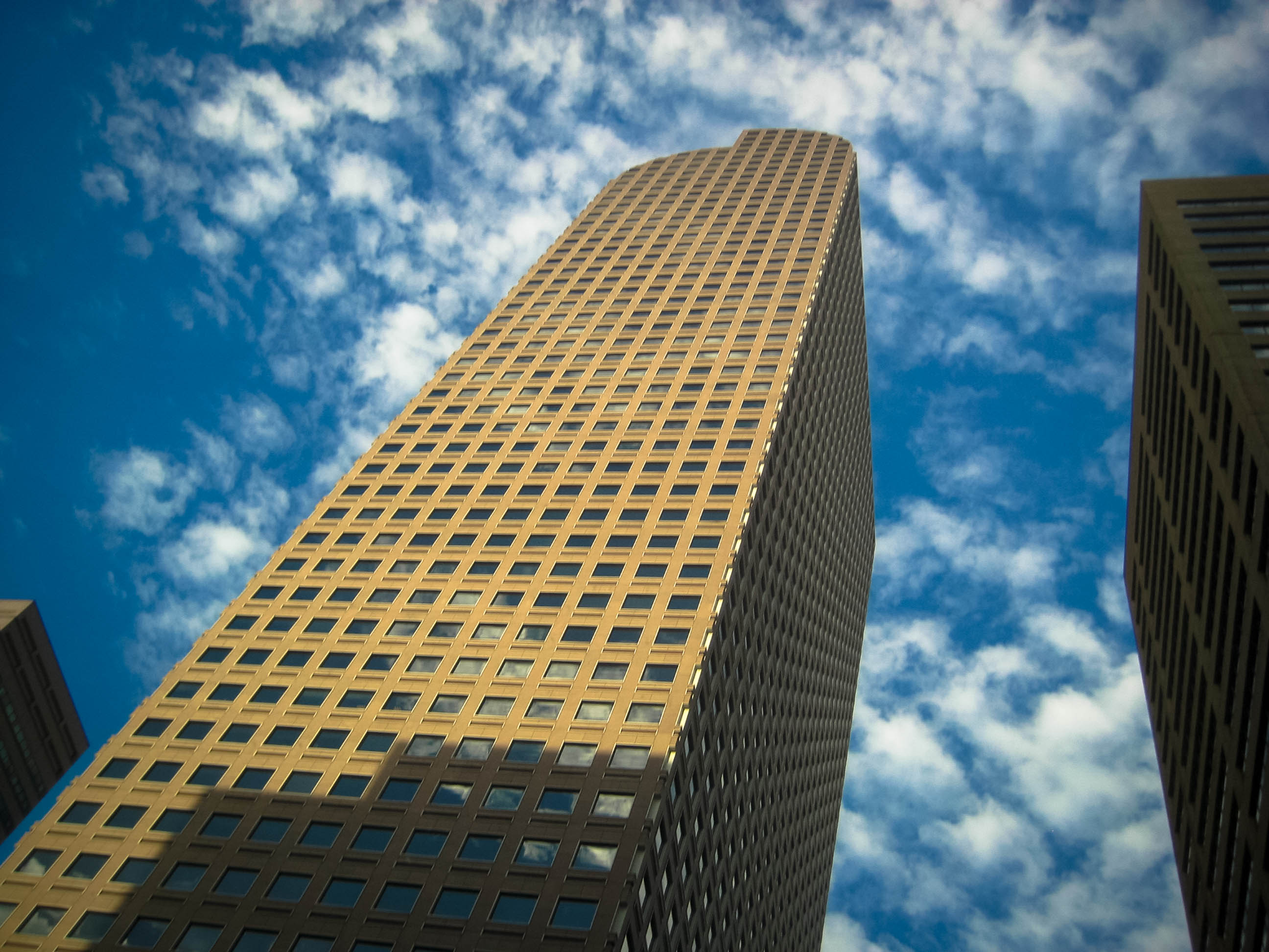
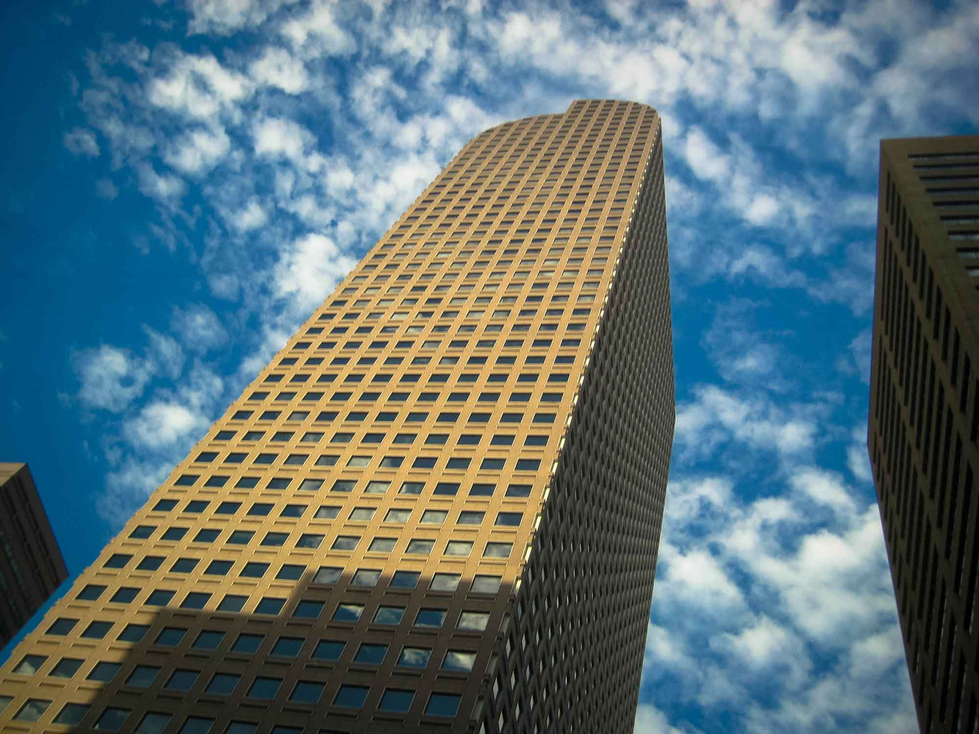
Optimized Design and Main pages.
As well as removed tam links and picked more appropriate photos for the
different sections

diff --git a/flat/design/index.html b/flat/design/index.html
@@ -9,7 +9,7 @@
 <!-- CSS -->
 <link rel="stylesheet" href="../assets/flat.css">
 <style>
-#main { background-image: url( '../assets/img/vargasp-open-space-estes-park.jpg' ); }
+#main { background-image: url( '../assets/img/vargas-denver-i-see-what-you-mean-blue-bear.jpg' ); }
 section p { overflow: auto; }
 </style>
 
@@ -36,7 +36,6 @@ section p { overflow: auto; }
       <li><a href="../code"><i class="iconsole"></i>Programming Projects</a></li>
       <li><a href="../design"><i class="igraph"></i>Design Work</a></li>
       <li><a href="../music"><i class="irecord"></i>Music Portfolio</a></li>
-      <li><a href="http://redwood.colorado.edu/vargasp"><i class="ilinks"></i><abbr title="Technology, Arts and Media">TAM</abbr> Classes</a></li>
     </menu>
     <i class="ipvlogo"></i>
   </nav>
@@ -67,26 +66,22 @@ section p { overflow: auto; }
             <p>Below is some of my design work for various organizations. <span class="help">Click each image to enlarge and then click anywhere to diminish.</span>
             </p>
             <p>
-              <img src="img/postcard-mhfb-freedom-swing-formal-affair.png" alt="Postcard MHFB Freedom Swing Formal Affair">
-              <img src="img/poster-quote-anonymous.png" alt="Poster Quote Anonymous">
-              <img src="img/poster-quote-zigler.png" alt="Poster Quote Zigler">
-              <img src="img/business-cards-main.png" alt="Business Card Main">
-              <img src="img/business-cards-anonymous.png" alt="Business Card with Anonymous Quote">
-              <img src="img/business-cards-zig-ziglar.png" alt="Business Card with Zig Ziglar Quote">
-              <img src="img/business-cards-oscar-wilde.png" alt="Business Card with Oscar Wilde Quote">
+              <img src="thumbs/postcard-mhfb-freedom-swing-formal-affair.png" alt="Postcard MHFB Freedom Swing Formal Affair">
+              <img src="thumbs/business-cards-anonymous.png" alt="Business Card with Anonymous Quote">
+              <img src="thumbs/business-cards-main.png" alt="Business Card Main">
+              <img src="thumbs/business-cards-zig-ziglar.png" alt="Business Card with Zig Ziglar Quote">
+              <img src="thumbs/business-cards-oscar-wilde.png" alt="Business Card with Oscar Wilde Quote">
+              <img src="thumbs/business-cards-lucille-ball.png" alt="Business Card with Lucille Ball Quote">            
+              <img src="thumbs/logo-knitting-man.png" alt="Logo Knitting Man">
             </p>
             <p>
-              <img src="img/business-cards-lucille-ball.png" alt="Business Card with Lucille Ball Quote">            
-              <img src="img/flyer-knitting-man.png" alt="Flyer Knitting Man">
-              <img src="img/logo-knitting-man.png" alt="Logo Knitting Man">
-              <img src="img/flyer-gsa-drag-show-jungle.png" alt="Flyer GSA Drag Show Jungle">
-              <img src="img/flyer-gsa-queer-sex-ed-01.png" alt="Flyer GSA Queer Sex Ed 01">
-              <img src="img/flyer-gsa-queer-sex-ed-02.png" alt="Flyer GSA Queer Sex Ed 02">
-              <img src="img/flyer-sage-interview-workshop.png" alt="Flyer SAGE Interview Workshop">
-            </p>
-            <p>
-              <img src="img/flyer-sage-resume-workshop.png" alt="Flyer SAGE Resume Workshop">
-              <img src="img/flyer-sage-general-meeting.png" alt="Flyer SAGE General Meeting">
+              <img src="thumbs/poster-quote-anonymous.png" alt="Poster Quote Anonymous">
+              <img src="thumbs/poster-quote-zigler.png" alt="Poster Quote Zigler">
+              <img src="thumbs/flyer-gsa-drag-show-jungle.png" alt="Flyer GSA Drag Show Jungle">
+              <img src="thumbs/flyer-gsa-queer-sex-ed-02.png" alt="Flyer GSA Queer Sex Ed 02">
+              <img src="thumbs/flyer-sage-interview-workshop.png" alt="Flyer SAGE Interview Workshop">
+              <img src="thumbs/flyer-sage-resume-workshop.png" alt="Flyer SAGE Resume Workshop">
+              <img src="thumbs/flyer-sage-general-meeting.png" alt="Flyer SAGE General Meeting">
             </p>
           </section>
         </div>
@@ -113,6 +108,7 @@ $(function( ) {
   vargas.SidebarMenuEffects( );
   vargas.lightbox( );
   vargas.key( );
+  vargas.preload( );
 });
 </script>
 </body>

diff --git a/flat/index.html b/flat/index.html
@@ -13,12 +13,11 @@
 #crumbs { display: none; }
 #navbar menu li, #drawer-switch { cursor: pointer; }
 #navbar menu li:hover { background-color: #00A5C9; }
-#home     { background-image: url( 'assets/img/vargasp-victoria-island-canada.jpg' ); }
+#home     { background-image: url( 'assets/img/vargasp-petroglyph-utah.jpg' ); }
 #resume   { background-image: url( 'assets/img/vargasp-cash-register-building-denver.jpg' ); }
-#projects { background-image: url( 'assets/img/vargasp-carousel-denver.jpg' ); }
-#design   { background-image: url( 'assets/img/vargasp-lake-champlain-vermont.jpg' ); }
-#music    { background-image: url( 'assets/img/vargasp-manitou-springs-colorado.jpg' ); }
-#tam      { background-image: url( 'assets/img/vargasp-flatiron-boulder.jpg' ); }
+#projects { background-image: url( 'assets/img/vargas-typewriter-auction.jpg' ); }
+#design   { background-image: url( 'assets/img/vargas-denver-i-see-what-you-mean-blue-bear.jpg' ); }
+#music    { background-image: url( 'assets/img/vargas-montreal-graffiti.jpg' ); }
 #links    { background-image: url( 'assets/img/vargasp-bridge-idaho.jpg' ); }
 </style>
 
@@ -58,7 +57,6 @@
       <li><a href="code"><i class="iconsole"></i>Programming Projects</a></li>
       <li><a href="design"><i class="igraph"></i>Design Work</a></li>
       <li><a href="music"><i class="irecord"></i>Music Portfolio</a></li>
-      <li><a href="http://redwood.colorado.edu/vargasp"><i class="ilinks"></i><abbr title="Technology, Arts and Media">TAM</abbr> Classes</a></li>
     </menu>
     <i class="ipvlogo"></i>
   </nav>
@@ -79,7 +77,6 @@
           <li id="iconsole" data-target="#projects">Programming Projects</li>
           <li id="igraph" data-target="#design">Design Work</li>
           <li id="irecord" data-target="#music">Music Portfolio</li>
-          <li id="itam" data-target="#tam">Tam ides</li>
           <li id="ilinks" data-target="#links">Social Network</li>
         </menu>
       </div>
@@ -126,18 +123,7 @@
           </a>
         </section>
         
-        <section id="tam" class="slide" data-speed="8">
-          <a href="http://redwood.colorado.edu/vargasp">
-            <h2><abbr title="Technology, Arts and Media">TAM</abbr> Classes</h2>
-            <p>Like what you see? Within the TAM Program at the University of Colorado, I needed a way to document my work.</p>
-          </a>
-        </section>
-
         <section id="links" class="slide" data-speed="8">
-          <!-- <div>
-            <h2>Links</h2>
-            <p>Find me on the Internet</p>
-          </div> -->
           <section>
             <a href="http://github.com/pevargas" target="_blank" rel="nofollow" id="github">Github</a>
             <a href="http://www.linkedin.com/pub/patrick-vargas/40/953/893" target="_blank" rel="nofollow" id="linkedin">LinkedIn</a>

diff --git a/flat/assets/repo.js b/flat/assets/repo.js
@@ -37,40 +37,12 @@ var repo = {
     date: "2010-08",
     text: "Designed flyers for the Gay-Straight Alliance. This flyer was used for the annual Drag Show, which had a jungle theme"
   },
-  "flyer-gsa-drag-show-retro.png":
-  {
-    date: "2010-08",
-    text: "Designed flyers for the Gay-Straight Alliance. This flyer was an alternate design for the annual Drag Show"
-  },
-  "flyer-gsa-queer-sex-ed-01.png":
-  {
-    date: "2010-09",
-    text: "Designed flyers for the Gay-Straight Alliance. This alternate flyer was for the annual Queer Sex Ed event."
-  },
   "flyer-gsa-queer-sex-ed-02.png":
   {
     date: "2010-09",
     text: "Designed flyers for the Gay-Straight Alliance. This alternate flyer was for the annual Queer Sex Ed event."
   },
-  "flyer-gsa-queer-sex-ed-03.png":
-  {
-    date: "2010-09",
-    text: "Designed flyers for the Gay-Straight Alliance. This alternate flyer was for the annual Queer Sex Ed event."
-  },
-  "flyer-gsa-queer-sex-ed-04.png":
-  {
-    date: "2010-09",
-    text: "Designed flyers for the Gay-Straight Alliance. This flyer was used for the annual Queer Sex Ed event."
-  },
-
-  /////////////////////////////////////////////////////////////////////////////
-  // Knitting Man Flyer
-  "flyer-knitting-man.png":
-  {
-    date: "2012-08",
-    text: "Designed flyers for Knitting Man: A Gay Men's Knitting Group. This promotional handbill is used to gain new members"
-  },
-
+  
   /////////////////////////////////////////////////////////////////////////////
   // SAGE Flyer
   "flyer-sage-general-meeting.png":
@@ -82,11 +54,6 @@ var repo = {
   {
     date: "2012-03",
     text: "Designed flyers for the Student Alliance of GLBT Engineers. This flyer was used to for an Interview Workshop for GLBTQ and Ally Students"
-  },
-  "flyer-sage-mass-meeting.png":
-  {
-    date: "2012-02",
-    text: "Designed flyers for the Student Alliance of GLBT Engineers. This flyer was for our introductory meeting for the semester"
   },
   "flyer-sage-resume-workshop.png":
   {

diff --git a/flat/assets/flat.js b/flat/assets/flat.js
@@ -129,6 +129,7 @@ var vargas = {
     $( 'img' ).each( function( ) {
       var src    = $( this ).attr( 'src' );
       var height, width;
+      src = src.replace( "thumbs", "img" );
 
       $( '<img>' ) // Make in memory copy of image to avoid css issues
         .attr( 'src', src )
@@ -208,9 +209,8 @@ var vargas = {
 
         // Find the index of the currently displayed image on the pages
         for ( var i = 0; i < images.length; ++i ) {
-          if ( images[i].src == current.src ) {
+          if ( images[i].src.split("/").pop() == current.src.split("/").pop() ) {
             index = i;
-            console.debug( i );
             break;
           }
         }
@@ -223,6 +223,18 @@ var vargas = {
         index = ( index + images.length ) % images.length;
         images[ index ].click( );
       }
+    });
+  },
+
+  // Function to preload the images
+  preload: function( ) {
+    var images = $( "article img" );
+    vargas.preHelper( images );
+  },
+
+  preHelper: function( arr ) {
+    $(arr).each( function () {
+      $( '<img/>' )[0].src = this.src.replace( "thumbs", "img" );
     });
   },
 

diff --git a/flat/music/index.html b/flat/music/index.html
@@ -9,7 +9,7 @@
 <!-- CSS -->
 <link rel="stylesheet" href="../assets/flat.css">
 <style>
-#main { background-image: url( '../assets/img/vargasp-trail-estes-park.jpg' ); }
+#main { background-image: url( '../assets/img/vargas-montreal-graffiti.jpg' ); }
 img { width: 20%; }
 </style>
 
@@ -36,7 +36,6 @@ img { width: 20%; }
       <li><a href="../code"><i class="iconsole"></i>Programming Projects</a></li>
       <li><a href="../design"><i class="igraph"></i>Design Work</a></li>
       <li><a href="../music"><i class="irecord"></i>Music Portfolio</a></li>
-      <li><a href="http://redwood.colorado.edu/vargasp"><i class="ilinks"></i><abbr title="Technology, Arts and Media">TAM</abbr> Classes</a></li>
     </menu>
     <i class="ipvlogo"></i>
   </nav>

diff --git a/flat/resume/index.html b/flat/resume/index.html
@@ -9,7 +9,7 @@
 <!-- CSS -->
 <link rel="stylesheet" href="../assets/flat.css">
 <style>
-#main { background-image: url( '../assets/img/vargasp-houses-vermont.jpg' ); }
+#main { background-image: url( '../assets/img/vargasp-cash-register-building-denver.jpg' ); }
 </style>
 
 <!-- Google Analytics -->
@@ -35,7 +35,6 @@
       <li><a href="../code"><i class="iconsole"></i>Programming Projects</a></li>
       <li><a href="../design"><i class="igraph"></i>Design Work</a></li>
       <li><a href="../music"><i class="irecord"></i>Music Portfolio</a></li>
-      <li><a href="http://redwood.colorado.edu/vargasp"><i class="ilinks"></i><abbr title="Technology, Arts and Media">TAM</abbr> Classes</a></li>
     </menu>
     <i class="ipvlogo"></i>
   </nav>

diff --git a/flat/code/index.html b/flat/code/index.html
@@ -9,7 +9,7 @@
 <!-- CSS -->
 <link rel="stylesheet" href="../assets/flat.css">
 <style>
-#main { background-image: url( '../assets/img/vargasp-river-vancouver-canada.jpg' ); }
+#main { background-image: url( '../assets/img/vargas-typewriter-auction.jpg' ); }
 </style>
 
 <!-- Google Analytics -->
@@ -35,7 +35,6 @@
       <li><a href="../code"><i class="iconsole"></i>Programming Projects</a></li>
       <li><a href="../design"><i class="igraph"></i>Design Work</a></li>
       <li><a href="../music"><i class="irecord"></i>Music Portfolio</a></li>
-      <li><a href="http://redwood.colorado.edu/vargasp"><i class="ilinks"></i><abbr title="Technology, Arts and Media">TAM</abbr> Classes</a></li>
     </menu>
     <i class="ipvlogo"></i>
   </nav>

diff --git a/flat/about/index.html b/flat/about/index.html
@@ -39,7 +39,6 @@
       <li><a href="../code"><i class="iconsole"></i>Programming Projects</a></li>
       <li><a href="../design"><i class="igraph"></i>Design Work</a></li>
       <li><a href="../music"><i class="irecord"></i>Music Portfolio</a></li>
-      <li><a href="http://redwood.colorado.edu/vargasp"><i class="ilinks"></i><abbr title="Technology, Arts and Media">TAM</abbr> Classes</a></li>
     </menu>
     <i class="ipvlogo"></i>
   </nav>
